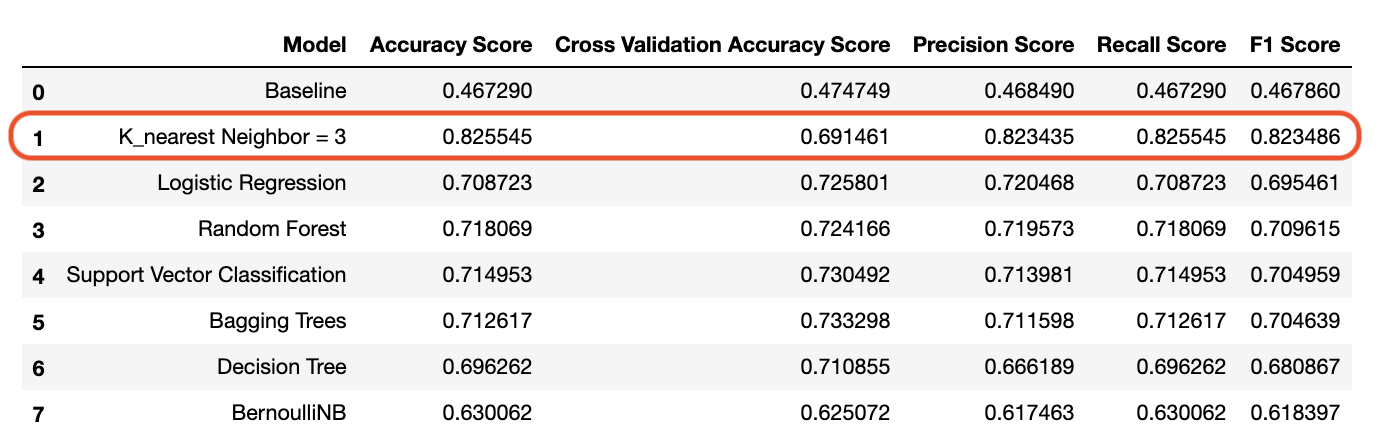
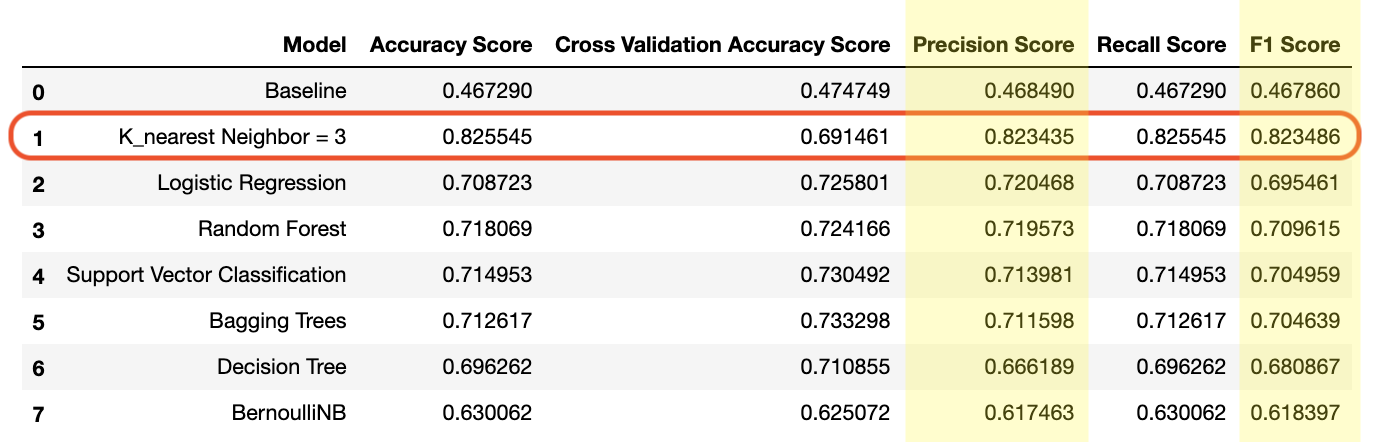
updated readme to highlight the scores i focused on

Changed region(s): [[0.6534, 0.0, 0.809, 1.0], [0.8712, 0.0, 0.9957, 1.0]]

diff --git a/README.md b/README.md
@@ -52,7 +52,8 @@ For my fourth project in Flatiron I wanted to see if i can make a mac hine learn
 * Finally I showed all results of the tested models in a neat table.
 ![](images/all_evalutions_table.png)
 
-The results showed K-Nearest Neighbors @ 3 preformed the best across the board
+I was looking for either precision or F1 Score for the determining outcome; F1 Score would be a better measure to use if we need to seek a balance between Precision and Recall AND there is an uneven class distribution (large number of Actual Negatives).
+The results showed KNN (K-Nearest Neighbors = 3) actually preformed the best across the board, through out all tests(except accuracy_score through cross validation).
 
 
 ## Built With
